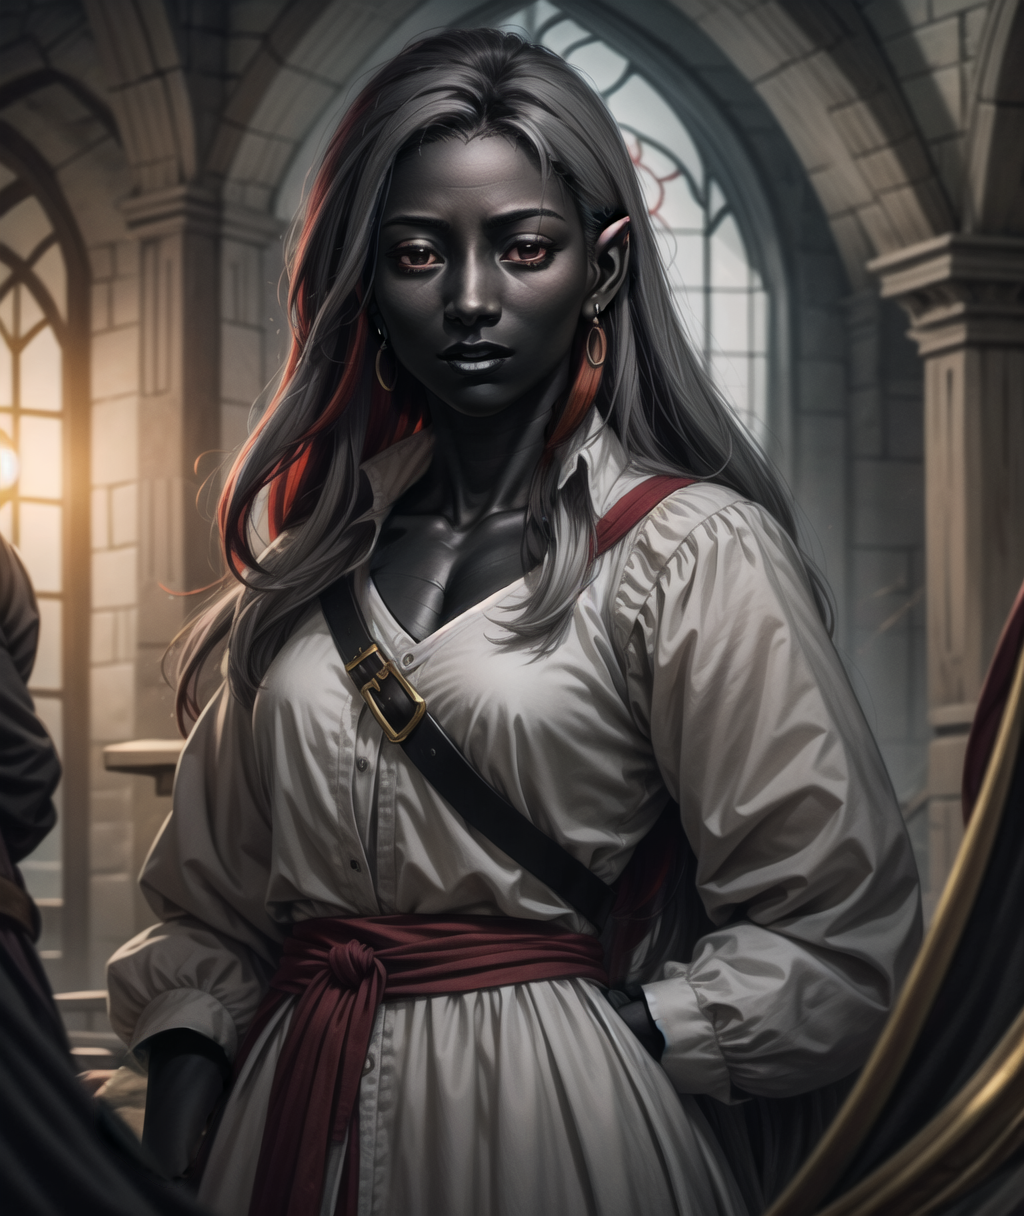
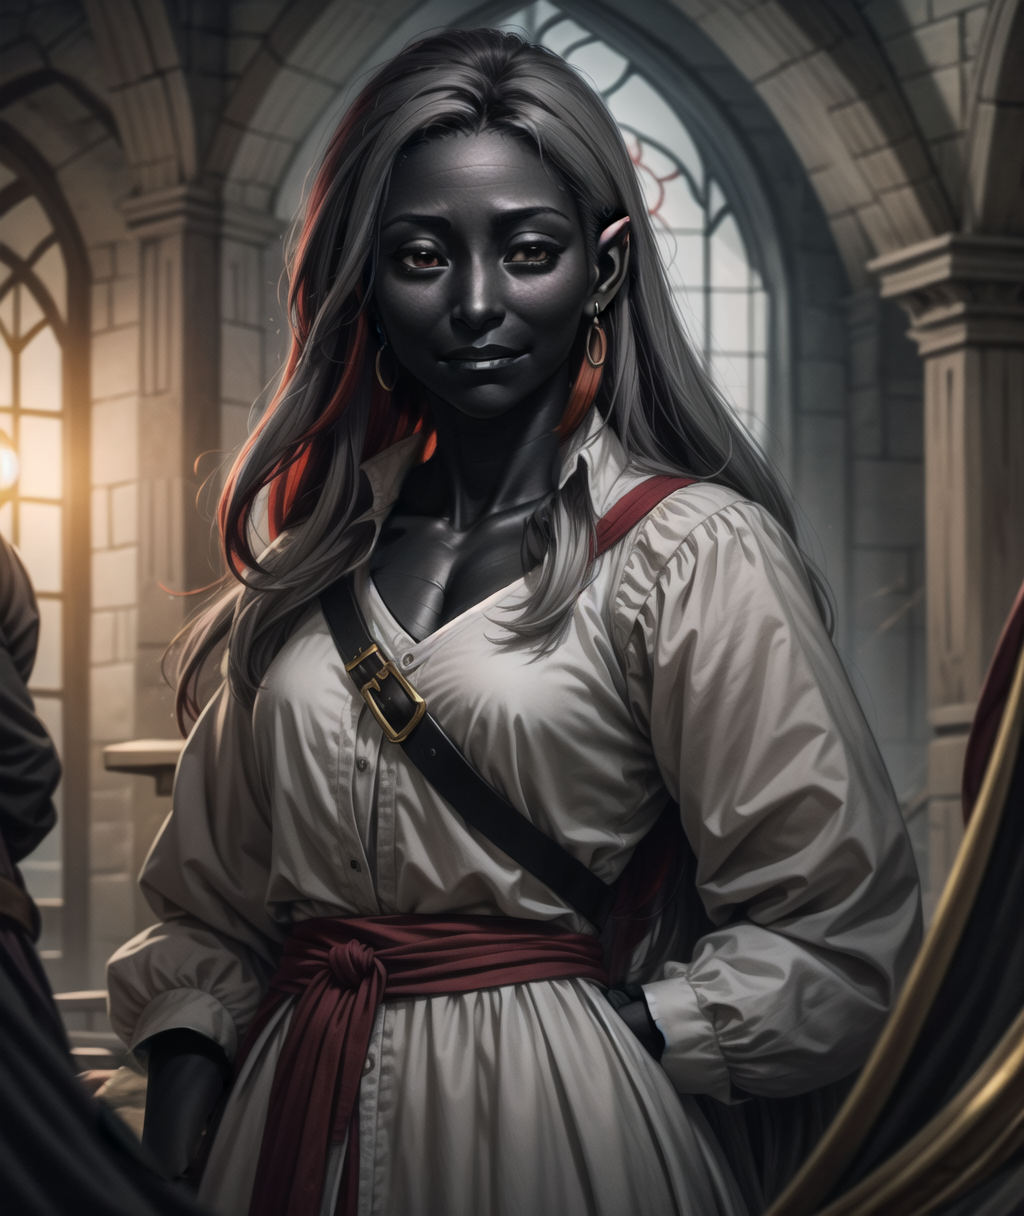
Quartz sync: Jun 13, 2024, 11:35 PM

diff --git a/content/NPCs/Relationships/Casmira Hill.md b/content/NPCs/Relationships/Casmira Hill.md
@@ -4,6 +4,7 @@ tags:
   - npc
 ---
 
+![[Casmira.png]]
 # Background
 An outcast Runecaster and girlfriend of [[Trenton|Tyr Emeraldcrag]] living in [[Blackport]]. Cursed as a Runecaster, her casting has spelt a terrible end to the Dwarves in Otia if [[Trenton|Tyr]] is not able to seize the reigns of power in Emeraldcrag.
 

diff --git a/content/NPCs/People of Power/Aeldfric Wakesong.md b/content/NPCs/People of Power/Aeldfric Wakesong.md
@@ -3,7 +3,7 @@ title: Aeldfric Wakesong
 tags:
   - npc
 aliases: 
-draft: true
+draft: false
 ---
 # Background
 The current ruler of Pinem. He resides in [[Cathoras Castle]] inside [[Maelbreak]]. He is to be succeeded by the prince and princess of [[Pinem]], [[Aelura Wakesong]] or [[Aelura Wakesong]].

diff --git a/content/NPCs/Chance Meetings/Antir Coppermine.md b/content/NPCs/Chance Meetings/Antir Coppermine.md
@@ -4,6 +4,7 @@ tags:
   - npc
 aliases:
 ---
+![[Antir.png]]
 # Background
 One of the dwarven craftsman in [[Blackport]] heading a forge managed by [[Pinity Ironmountain]]. After her dissapearence, he and the Coppermines took over the Peerless forge from [[Trenton|Tyr]].
 

diff --git a/content/NPCs/Chance Meetings/The Guard Pair.md b/content/NPCs/Chance Meetings/The Guard Pair.md
@@ -1,5 +1,5 @@
 ---
-title: Balda & Thony
+title: Edgar & Binny
 tags:
   - npc
 aliases: 
